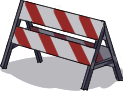
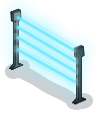
updated obstacles, removed unused code and sprites

diff --git a/GXPEngine/Lavos/GameObjects/Player.cs b/GXPEngine/Lavos/GameObjects/Player.cs
@@ -8,9 +8,8 @@ namespace Lavos
 	{
 		private const float GRAVITY = 0.3f;
 
-		//TODO: Test movement variables.
 		private const float JUMP_FORCE = 14.0f;
-		private const float MOVEMENT_SPEED = 3.0f;
+		//private const float MOVEMENT_SPEED = 4.0f;
 		private const int MAX_ABILITY_USE_TIME = 7500;
 		private readonly Sound shieldSound;
 		private readonly Sound slowMotionSound;
@@ -94,14 +93,14 @@ namespace Lavos
 			y = currentLaneBottom;
 		}
 
-		private void ProcessHorizontalInput()
+		/*private void ProcessHorizontalInput()
 		{
 			if (Input.GetKey(Key.A)) { x -= MOVEMENT_SPEED; }
 
 			if (Input.GetKey(Key.D)) { x += MOVEMENT_SPEED; }
 
 			x = Mathf.Clamp(x, 0, game.width - width);
-		}
+		}*/
 
 		private void ProcessAbilityUsage()
 		{
@@ -124,6 +123,8 @@ namespace Lavos
 
 			if (AbilityType == Lavos.AbilityType.SlowTime) { abilitySC = slowMotionSound.Play(); }
 
+			if (AbilityType == Lavos.AbilityType.Shield) { abilitySC = shieldSound.Play(); }
+
 			abilityUsageStartTime = Time.time;
 			IsUsingAbility = true;
 		}
@@ -140,6 +141,12 @@ namespace Lavos
 			else { SetCycle(4, 12); }
 
 			base.Animate(deltaFrameTime);
+		}
+
+		protected override void OnDestroy()
+		{
+			abilitySC?.Stop();
+			base.OnDestroy();
 		}
 	}
 }

diff --git a/GXPEngine/Lavos/GameObjects/Obstacle.cs b/GXPEngine/Lavos/GameObjects/Obstacle.cs
@@ -15,8 +15,7 @@ namespace Lavos
 			_folderPath ??= Directory.GetCurrentDirectory() + @"\obstacles";
 			_imagePaths ??= Directory.GetFiles(_folderPath, "*.png");
 
-			string fileName = @"obstacles\" +
-			                  _imagePaths[new Random(Time.deltaTimeMiliseconds).Next(0, _imagePaths.Length)].Split('\\').Last();
+			string fileName = @"obstacles\" + _imagePaths[new Random(DateTime.Now.Millisecond).Next(0, _imagePaths.Length)].Split('\\').Last();
 			SetupSprite(fileName);
 		}
 

diff --git a/GXPEngine/Lavos/GameObjects/AbstractClasses/Deployable.cs b/GXPEngine/Lavos/GameObjects/AbstractClasses/Deployable.cs
@@ -17,7 +17,7 @@ namespace Lavos
 		protected Deployable(int laneNumber, float speed)
 		{
 			LaneNumber = laneNumber;
-			this.speed = speed * 100;
+			this.speed = speed * 150;
 		}
 
 		protected void SetupSprite(string fileName)
